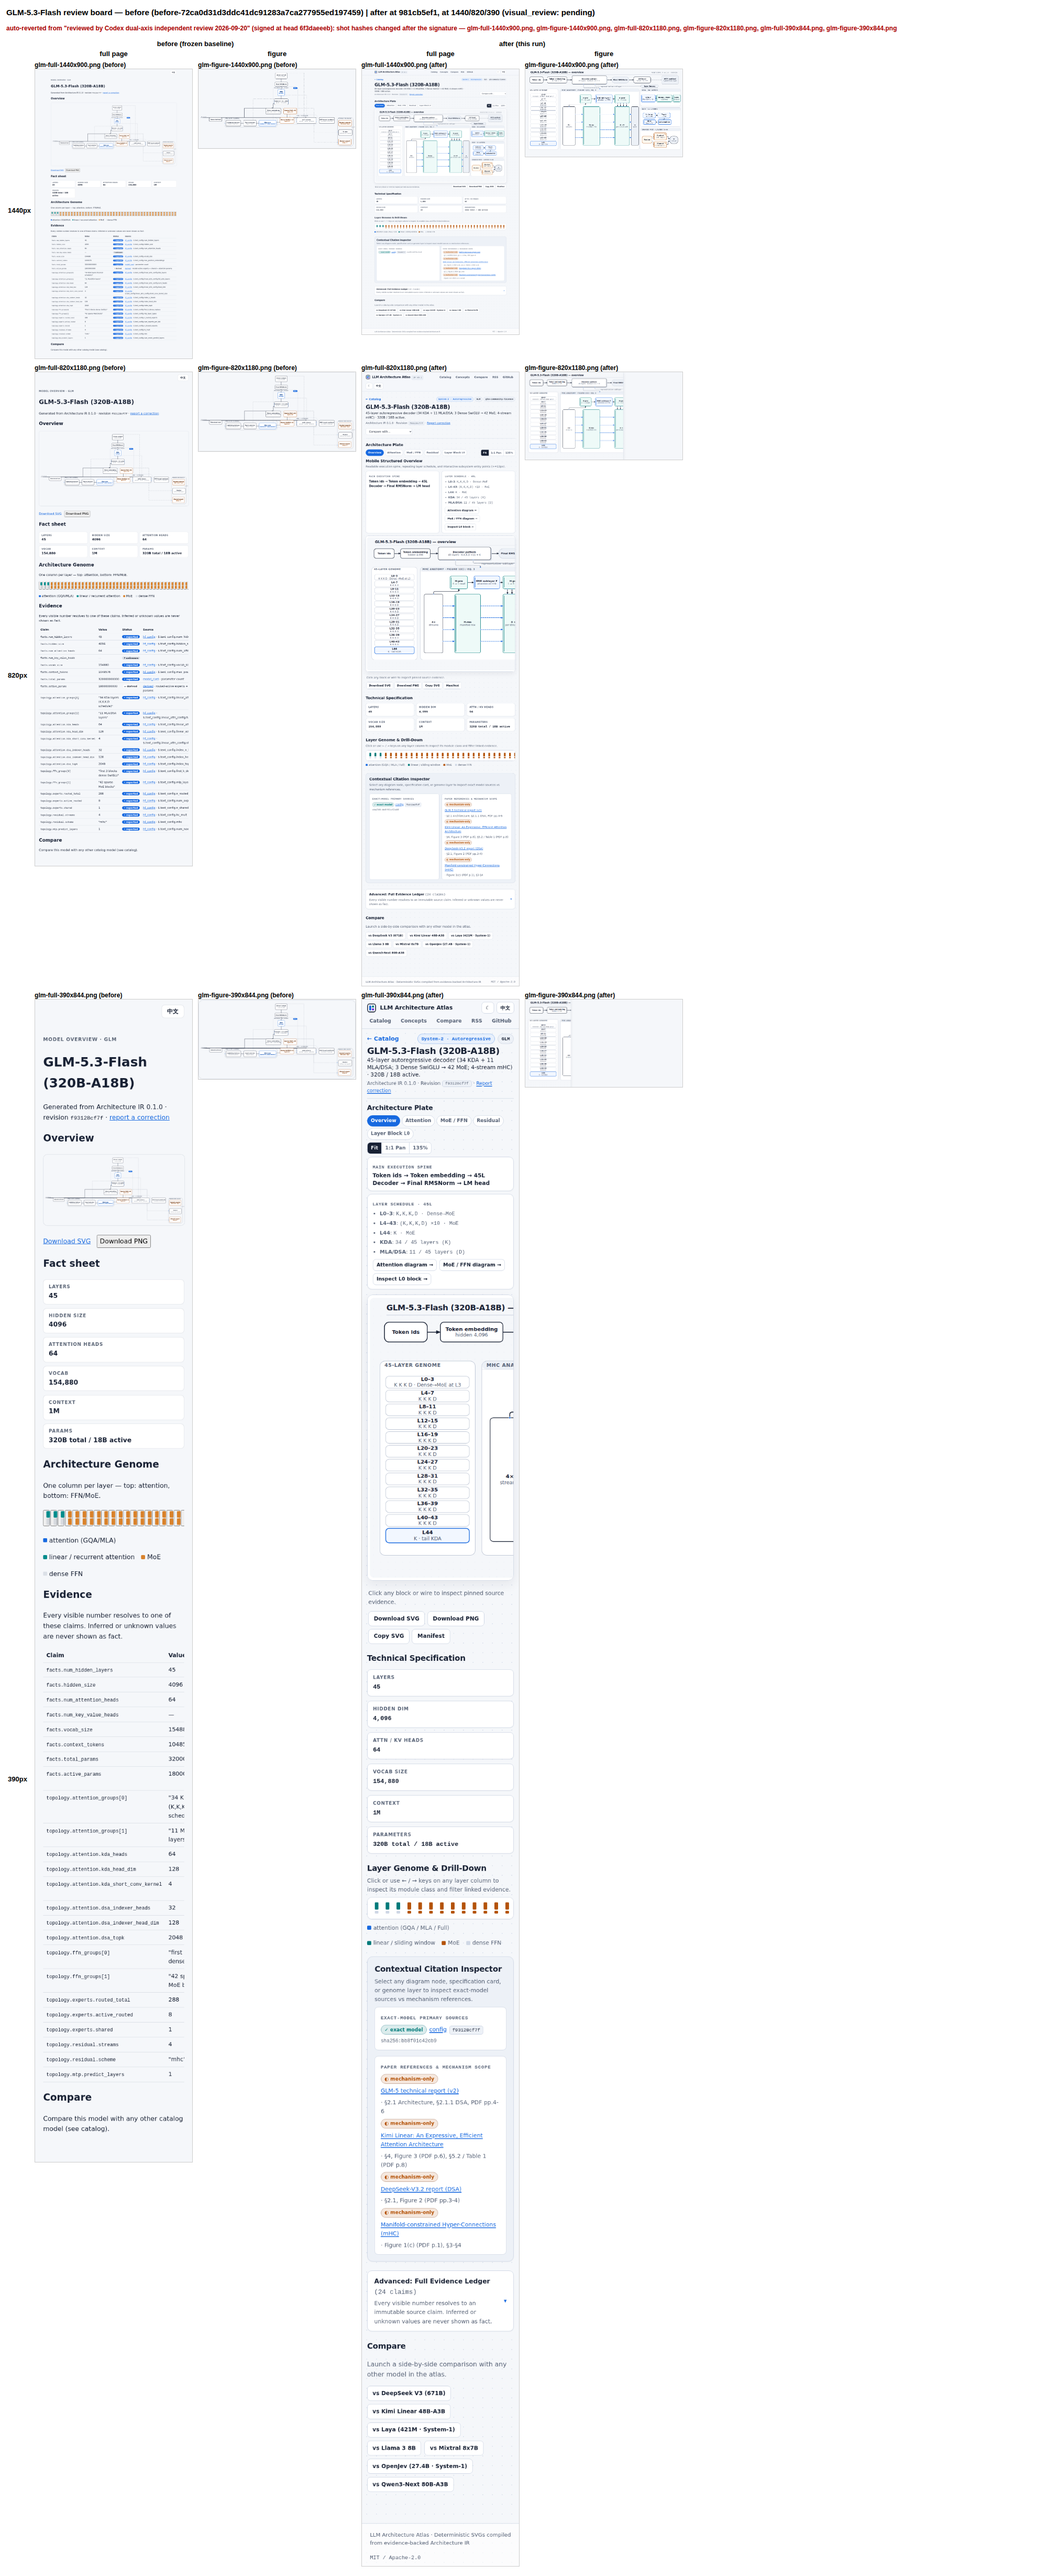
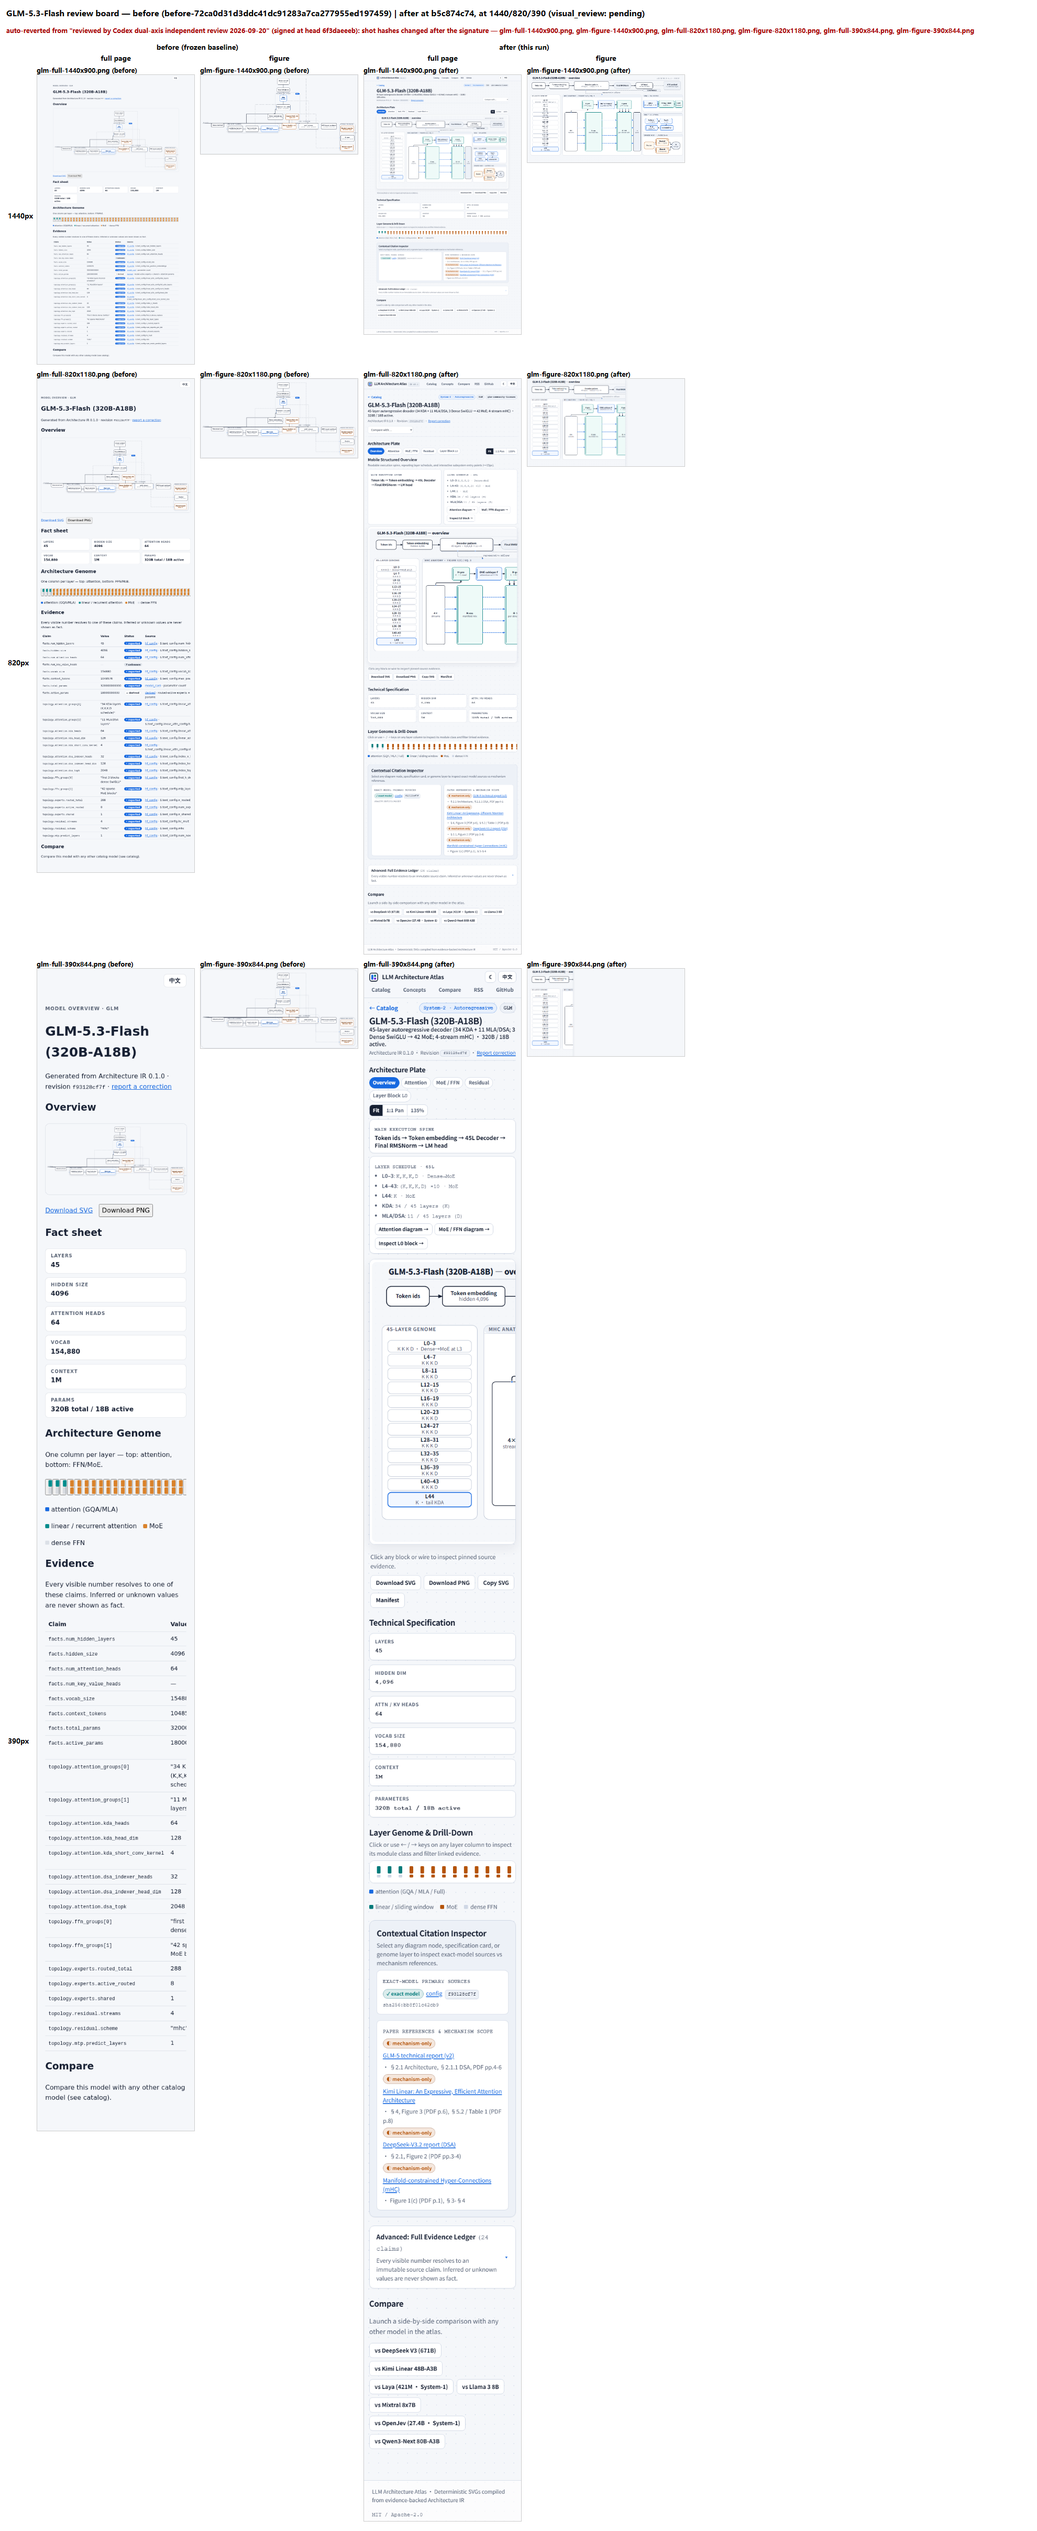
fix(diagram,a11y): separate GLM callout-lenses from label, nest MLA subview bypasses, and fix reduced-motion scroll (Refs #32 #36)

diff --git a/packages/diagram-engine/src/subview-compiler.ts b/packages/diagram-engine/src/subview-compiler.ts
@@ -164,19 +164,53 @@ function composeSubviewGrid(id: string, scene: DiagramScene, bands: SubGroupLayo
     return null;
   };
 
-  for (const edge of scene.edges) {
-    const from = resolveEnd(edge.from, true);
-    const to = resolveEnd(edge.to, false);
+  const resolvedEnds = scene.edges.map((edge) => ({
+    edge,
+    from: resolveEnd(edge.from, true),
+    to: resolveEnd(edge.to, false),
+  }));
+
+  // Stagger same-side bypass rails (e.g., inner MLA latent skip vs outer residual bridge)
+  // by ascending span width so inner channels nest inside outer channels with zero overlap.
+  const assignTracks = (matchSide: "bottom" | "top") => {
+    const items = resolvedEnds
+      .filter((r): r is { edge: SemanticEdge; from: { point: Point; side: typeof matchSide }; to: { point: Point; side: typeof matchSide } } =>
+        Boolean(r.from && r.to && r.from.side === matchSide && r.to.side === matchSide),
+      )
+      .map((r) => ({
+        id: r.edge.id,
+        rowBucket: Math.round(Math.max(r.from.point.y, r.to.point.y) / 20),
+        span: Math.abs(r.to.point.x - r.from.point.x),
+      }));
+    const trackMap = new Map<string, number>();
+    const byBucket = new Map<number, typeof items>();
+    for (const item of items) {
+      const list = byBucket.get(item.rowBucket) ?? [];
+      list.push(item);
+      byBucket.set(item.rowBucket, list);
+    }
+    for (const list of byBucket.values()) {
+      list.sort((a, b) => a.span - b.span);
+      list.forEach((item, idx) => trackMap.set(item.id, idx));
+    }
+    return trackMap;
+  };
+  const bottomTracks = assignTracks("bottom");
+  const topTracks = assignTracks("top");
+
+  for (const { edge, from, to } of resolvedEnds) {
     if (!from || !to) continue;
     if ((from.side === "bottom" || from.side === "top") && (to.side === "left" || to.side === "right")) {
       edgeRoutes[edge.id] = [from.point, { x: from.point.x, y: to.point.y }, to.point];
     } else if ((from.side === "left" || from.side === "right") && (to.side === "top" || to.side === "bottom")) {
       edgeRoutes[edge.id] = [from.point, { x: to.point.x, y: from.point.y }, to.point];
     } else if (from.side === "bottom" && to.side === "bottom") {
-      const dy = Math.max(from.point.y, to.point.y) + 11;
+      const track = bottomTracks.get(edge.id) ?? 0;
+      const dy = Math.max(from.point.y, to.point.y) + 11 + track * 12;
       edgeRoutes[edge.id] = [from.point, { x: from.point.x, y: dy }, { x: to.point.x, y: dy }, to.point];
     } else if (from.side === "top" && to.side === "top") {
-      const ry = Math.min(from.point.y, to.point.y) - 11;
+      const track = topTracks.get(edge.id) ?? 0;
+      const ry = Math.min(from.point.y, to.point.y) - 11 - track * 12;
       edgeRoutes[edge.id] = [from.point, { x: from.point.x, y: ry }, { x: to.point.x, y: ry }, to.point];
     } else if (from.side === "bottom" && to.side === "top") {
       const midY = Math.round((from.point.y + to.point.y) / 2);

diff --git a/apps/web/e2e/smoke.spec.ts b/apps/web/e2e/smoke.spec.ts
@@ -143,10 +143,12 @@ test("mobile 390x844 shows readable structured overview cards and >=24px control
     const sched = document.querySelector(".schedule-pills")!;
     const tab = document.querySelector(".vtab")!;
     const col = document.querySelector(".genome .col")!;
+    const crumb = document.querySelector(".crumb-back")!;
     const chainBox = chain.getBoundingClientRect();
     const schedBox = sched.getBoundingClientRect();
     const tabBox = tab.getBoundingClientRect();
     const colBox = col.getBoundingClientRect();
+    const crumbBox = crumb.getBoundingClientRect();
     return {
       fontSize: parseFloat(getComputedStyle(chain).fontSize),
       chainBottom: chainBox.bottom,
@@ -155,6 +157,7 @@ test("mobile 390x844 shows readable structured overview cards and >=24px control
       tabH: tabBox.height,
       colW: colBox.width,
       colH: colBox.height,
+      crumbH: crumbBox.height,
     };
   });
   expect(metrics.fontSize).toBeGreaterThanOrEqual(12);
@@ -164,6 +167,11 @@ test("mobile 390x844 shows readable structured overview cards and >=24px control
   expect(metrics.tabH).toBeGreaterThanOrEqual(24);
   expect(metrics.colW).toBeGreaterThanOrEqual(24);
   expect(metrics.colH).toBeGreaterThanOrEqual(24);
+  expect(metrics.crumbH).toBeGreaterThanOrEqual(24);
+
+  await page.emulateMedia({ reducedMotion: "reduce" });
+  const reducedScroll = await page.evaluate(() => getComputedStyle(document.documentElement).scrollBehavior);
+  expect(reducedScroll).toBe("auto");
 });
 
 test("overview edge hotspot and dark-mode contrast meet accessibility guarantees (#36, #38)", async ({ page }) => {

diff --git a/packages/diagram-engine/src/glm-anatomy.ts b/packages/diagram-engine/src/glm-anatomy.ts
@@ -313,7 +313,7 @@ export function glmAnatomyBlueprint(): EditorialPosterBlueprint {
     { id: "norm", x: 842, y: 74, w: 165, h: 60 },
     { id: "head", x: 1054, y: 74, w: 165, h: 60 },
     { id: "mtp", x: 1325, y: 64, w: 165, h: 80 },
-    { id: "lens-bus", x: 1125, y: 152, w: 170, h: 28 },
+    { id: "lens-bus", x: 1125, y: 138, w: 170, h: 24 },
     ...Array.from({ length: 11 }, (_, i) => ({ id: `pattern-${i}`, x: 48, y: 238 + i * 42, w: 254, h: 36 })),
     { id: "pattern-tail", x: 48, y: 700, w: 254, h: 44 },
     { id: "mhc-source", x: 365, y: 364, w: 120, h: 376 },
@@ -351,8 +351,8 @@ export function glmAnatomyBlueprint(): EditorialPosterBlueprint {
     "mhc-pre", "mhc-pre-f", "mhc-f-post", "kda-1", "kda-2", "dsa-1", "dsa-2", "dsa-3", "moe-1", "moe-2", "moe-3", "moe-4",
   ];
   const edgeRoutes: NonNullable<EditorialPosterBlueprint["edgeRoutes"]> = {
-    "callout-mhc": [{ x: 566, y: 144 }, { x: 566, y: 180 }, { x: 724, y: 180 }, { x: 724, y: 192 }],
-    "callout-lenses": [{ x: 678, y: 144 }, { x: 678, y: 166 }, { x: 1125, y: 166 }],
+    "callout-mhc": [{ x: 566, y: 144 }, { x: 566, y: 182 }, { x: 724, y: 182 }, { x: 724, y: 192 }],
+    "callout-lenses": [{ x: 678, y: 144 }, { x: 678, y: 150 }, { x: 1125, y: 150 }],
     "mhc-pre": [{ x: 425, y: 364 }, { x: 425, y: 347 }, { x: 586, y: 347 }, { x: 586, y: 330 }],
   };
   return { id: "glm-anatomy-desktop", size: { w: 1528, h: 850 }, nodes, groups, edges, edgeRoutes };

diff --git a/packages/diagram-engine/src/subview-compiler.test.ts b/packages/diagram-engine/src/subview-compiler.test.ts
@@ -59,6 +59,15 @@ describe("layer block and module drill-down subviews (#37)", () => {
     expect(l3.subtitle).toContain("MLA + MoE");
     expect(l26.subtitle).toContain("MLA + MoE");
     expect(l26.scene.nodes.some((n) => n.id === "blk-a-kv")).toBe(true);
+    for (const blk of [l0, l3, l26]) {
+      expect([...runSceneGates(blk.positioned), ...fontGates(blk.positioned, { referenceWidth: 1150 })]).toEqual([]);
+    }
+
+    const ds = loadModel("deepseek-ai", "deepseek-v3");
+    for (const layer of [0, 3]) {
+      const dsBlk = compileLayerBlockSubview(ds.arch, ds.evidence, layer);
+      expect([...runSceneGates(dsBlk.positioned), ...fontGates(dsBlk.positioned, { referenceWidth: 1150 })]).toEqual([]);
+    }
 
     for (const [org, slug, layer] of [
       ["convaiinnovations", "laya", 27],
